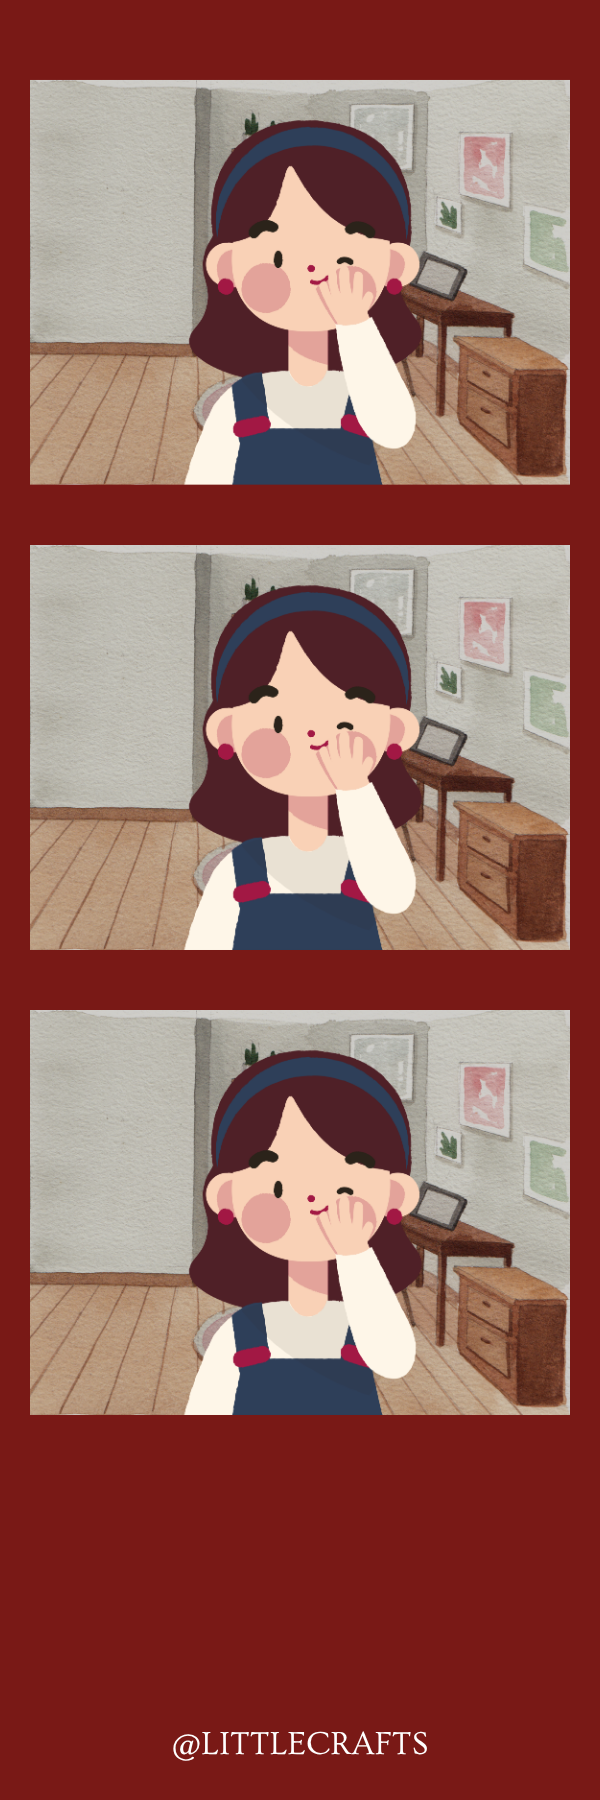
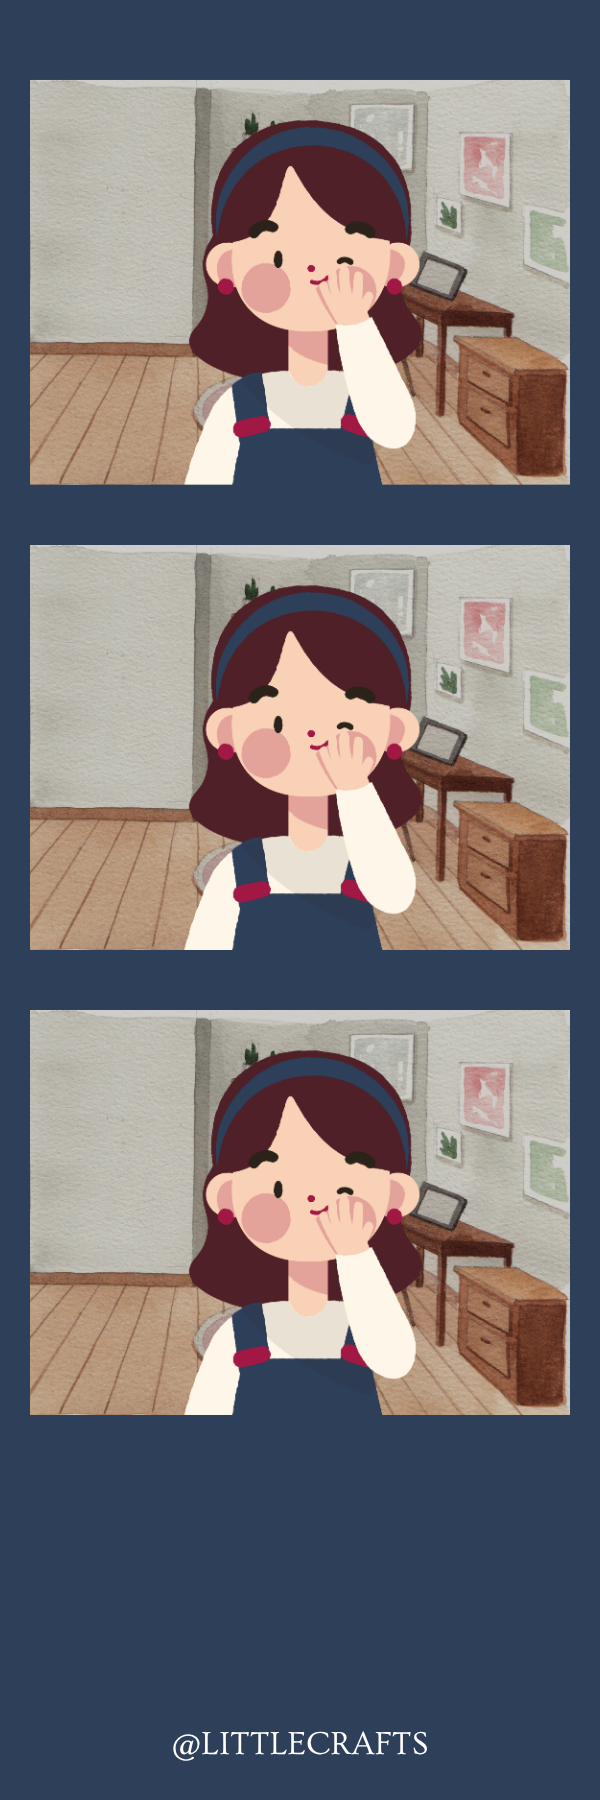
imported lilo stitch frame instead of direct path

diff --git a/src/assets/css/navbar.css b/src/assets/css/navbar.css
@@ -1,139 +1,146 @@
 .nav-container {
-    display: flex;
-    justify-content: center;
-    padding: 1rem;
-    top: 0;
-    width: 100%;
-    z-index: 100;
-  }
-  
-  .navbar {
-    background-color: var(--color-primary);
-    border-radius: 9999px;
-    padding: 0.75rem 1.5rem;
-    box-shadow: 0 10px 15px -3px rgba(0, 0, 0, 0.1), 0 4px 6px -2px rgba(0, 0, 0, 0.05);
-    display: flex;
-    flex-wrap: wrap;
-    justify-content: center;
-    gap: 0.5rem;
-    max-width: 100%;
-    overflow-x: auto;
-    width: fit-content;
-    min-width: max-content;
-  }
-  
-  .nav-link {
-    color: var(--color-text-on-primary-white);
-    font-weight: 500;
-    text-decoration: none;
-    transition: color 0.3s, background-color 0.3s;
-    padding: 0.25rem 0.75rem;
-    border-radius: 9999px;
-    white-space: nowrap;
-    font-weight: 500 !important;
-  }
-  
-  .nav-link:hover {
-    color: #e0e1dd;
-    background-color: #2a2a2a;
-  }
-  
-  .nav-link.active {
-    background-color: #2a2a2a;
-  }
-  
-  .content-container {
-    max-width: 1200px;
-    margin: 0 auto;
-    padding: 1rem;
-    margin-top: 0.5rem;
-  }
-  
-  /* Hamburger menu styles */
-  .hamburger {
-    display: none;
+  display: flex;
+  justify-content: center;
+  padding: 1rem;
+  top: 0;
+  width: 100%;
+  z-index: 100;
+}
+
+.navbar {
+  background-color: var(--color-primary);
+  border-radius: 9999px;
+  padding: 0.75rem 1.5rem;
+  box-shadow:
+    0 10px 15px -3px rgba(0, 0, 0, 0.1),
+    0 4px 6px -2px rgba(0, 0, 0, 0.05);
+  display: flex;
+  flex-wrap: wrap;
+  justify-content: center;
+  gap: 0.5rem;
+  max-width: 100%;
+  overflow-x: auto;
+  width: fit-content;
+  min-width: max-content;
+}
+
+.nav-link {
+  color: var(--color-text-on-primary-white);
+  font-weight: 500;
+  text-decoration: none;
+  transition:
+    color 0.3s,
+    background-color 0.3s;
+  padding: 0.25rem 0.75rem;
+  border-radius: 9999px;
+  white-space: nowrap;
+  font-weight: 500 !important;
+}
+
+.nav-link:hover {
+  color: #e0e1dd;
+  background-color: #2a2a2a;
+}
+
+.nav-link.active {
+  background-color: #2a2a2a;
+}
+
+.content-container {
+  max-width: 1200px;
+  margin: 0 auto;
+  padding: 1rem;
+  margin-top: 0.5rem;
+}
+
+/* Hamburger menu styles */
+.hamburger {
+  display: none;
+  flex-direction: column;
+  justify-content: space-between;
+  width: 30px;
+  height: 21px;
+  cursor: pointer;
+  margin-right: 10px;
+  z-index: 200;
+}
+
+.hamburger span {
+  width: 100%;
+  height: 3px;
+  background-color: #2e3f59;
+  border-radius: 3px;
+  transition: all 0.3s ease;
+}
+.hamburger.active span:nth-child(1) {
+  transform: translateY(9px) rotate(45deg);
+  background-color: #ffffff;
+}
+
+.hamburger.active span:nth-child(2) {
+  opacity: 0;
+}
+
+.hamburger.active span:nth-child(3) {
+  transform: translateY(-9px) rotate(-45deg);
+  background-color: #ffffff;
+}
+
+/* Mobile responsiveness - standard breakpoints */
+@media (max-width: 768px) {
+  .nav-container {
     flex-direction: column;
-    justify-content: space-between;
-    width: 30px;
-    height: 21px;
-    cursor: pointer;
-    margin-right: 10px;
-    z-index: 200;
+    align-items: center;
   }
-  
-  .hamburger span {
+
+  .navbar {
     width: 100%;
-    height: 3px;
-    background-color: #646cff;
-    border-radius: 3px;
-    transition: all 0.3s ease;
+    border-radius: 20px;
+    flex-direction: column;
+    align-items: center;
+    max-height: 0;
+    overflow: hidden;
+    padding: 0;
+    transition:
+      max-height 0.3s ease,
+      padding 0.3s ease;
   }
-  
-  .hamburger.active span:nth-child(1) {
-    transform: translateY(9px) rotate(45deg);
+
+  .navbar.active {
+    max-height: 300px;
+    padding: 0.75rem 1.5rem;
   }
-  
-  .hamburger.active span:nth-child(2) {
-    opacity: 0;
+
+  .hamburger {
+    display: flex;
+    position: absolute;
+    top: 1.5rem;
+    right: 1.5rem;
   }
-  
-  .hamburger.active span:nth-child(3) {
-    transform: translateY(-9px) rotate(-45deg);
+
+  .menu-container {
+    display: flex;
+    width: 100%;
+    justify-content: center;
+    position: relative;
   }
-  
-  /* Mobile responsiveness - standard breakpoints */
-  @media (max-width: 768px) {
-    .nav-container {
-      flex-direction: column;
-      align-items: center;
-    }
-    
-    .navbar {
-      width: 100%;
-      border-radius: 20px;
-      flex-direction: column;
-      align-items: center;
-      max-height: 0;
-      overflow: hidden;
-      padding: 0;
-      transition: max-height 0.3s ease, padding 0.3s ease;
-    }
-    
-    .navbar.active {
-      max-height: 300px;
-      padding: 0.75rem 1.5rem;
-    }
-    
-    .hamburger {
-      display: flex;
-      position: absolute;
-      top: 1.5rem;
-      right: 1.5rem;
-    }
-    
-    .menu-container {
-      display: flex;
-      width: 100%;
-      justify-content: center;
-      position: relative;
-    }
-    
-    .nav-link {
-      margin: 0.5rem 0;
-      width: 100%;
-      text-align: center;
-    }
+
+  .nav-link {
+    margin: 0.5rem 0;
+    width: 100%;
+    text-align: center;
   }
-  
-  @media (min-width: 640px) and (max-width: 768px) {
-    .navbar {
-      gap: 0.5rem;
-    }
+}
+
+@media (min-width: 640px) and (max-width: 768px) {
+  .navbar {
+    gap: 0.5rem;
   }
-  
-  @media (min-width: 769px) {
-    .navbar {
-      gap: 1rem;
-      flex-direction: row;
-    }
+}
+
+@media (min-width: 769px) {
+  .navbar {
+    gap: 1rem;
+    flex-direction: row;
   }
+}

diff --git a/src/routes/photo-strip-preview.lazy.jsx b/src/routes/photo-strip-preview.lazy.jsx
@@ -3,6 +3,7 @@ import { useEffect, useRef, useState } from "react";
 import gifshot from "gifshot";
 import { usePhotoContext } from "../context/PhotoContext";
 import "../assets/css/photo-strip-preview.lazy.css";
+import liloStitchFrameB from "../assets/images/frames/lilo_stitch_frames/lilo_stitch_frame_b.png";
 
 export const Route = createLazyFileRoute("/photo-strip-preview")({
   component: PhotoStripPreviewComponent,
@@ -46,7 +47,6 @@ function PhotoStripPreviewComponent() {
     { color: "#FFDAB9", name: "Peach" },
     { color: "#E6E6FA", name: "Lavender" },
   ];
-
   // Frame overlay options
   const frameOptions = [
     {
@@ -59,8 +59,7 @@ function PhotoStripPreviewComponent() {
       id: "lilo_stitch",
       name: "Lilo & Stitch",
       supportedLayouts: ["b"], // Only layout B is supported
-      imagePath:
-        "/src/assets/images/frames/lilo_stitch_frames/lilo_stitch_frame_b.png",
+      imagePath: liloStitchFrameB,
     },
   ];
 

diff --git a/src/index.css b/src/index.css
@@ -7,6 +7,7 @@
 
 :root {
   --color-primary: #2E3F59;
+  --color-background-color: #FEF6E8;
   --color-text-on-primary-black: #2e3f59;
   --color-text-on-primary-white: #FFFFFF;
 
@@ -26,6 +27,7 @@ body {
   height: 100%;
   min-height: 100vh;
   font-family: var(--font-family-body);
+  background-color: var(--color-background-color);
   color: var(--color-text-on-primary-black);
   line-height: 1.5;
   -webkit-font-smoothing: antialiased;
